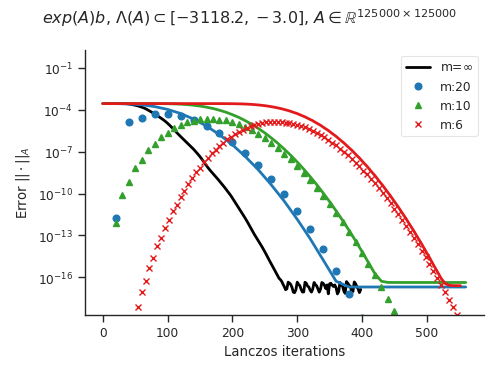
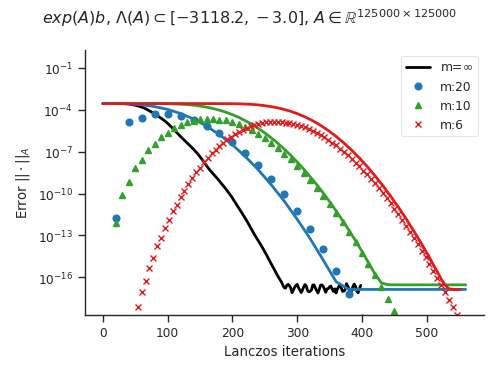
update exact n for large heat

Changed region(s): [[0.5422, 0.7373, 0.9337, 0.7962]]

diff --git a/experiments/large_heat_run_for_plot.py b/experiments/large_heat_run_for_plot.py
@@ -74,6 +74,7 @@ if __name__ == "__main__":
     func_scalar = np.exp
     bound_n = 550
     norm_name = "A"
+    exact_n = 3375
 
     u0 = prepare_starting_vector3(n)
 
@@ -97,7 +98,7 @@ if __name__ == "__main__":
         raise RuntimeError()
 
     beta = float(np.linalg.norm(u0))
-    (v, V, H, m) = arnoldi(t * A, u0.flatten() / beta, 1000, trunc=1)
+    (v, V, H, m) = arnoldi(t * A, u0.flatten() / beta, exact_n, trunc=1)
     exact = get_lanczos_approx(V, H, beta, func_sparse_sym)
     exact = exact.flatten()
     fig, ax = get_fig_ax()
